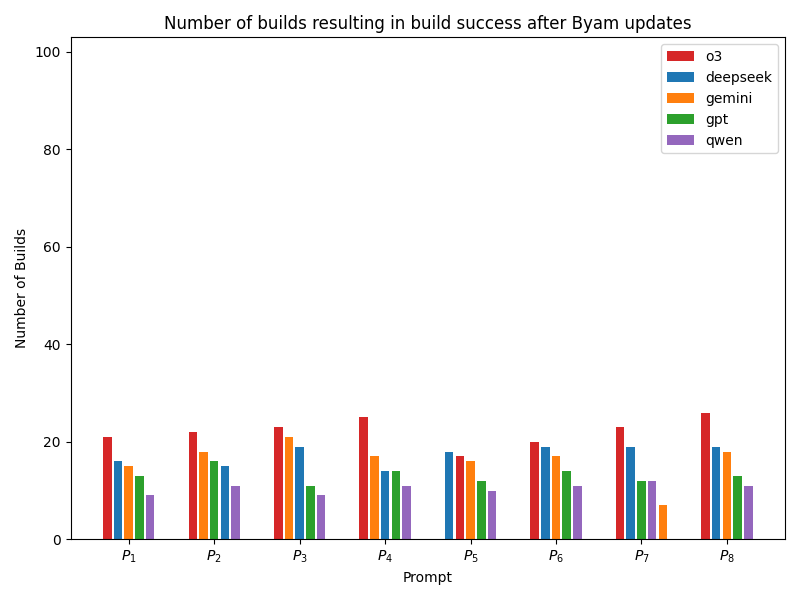
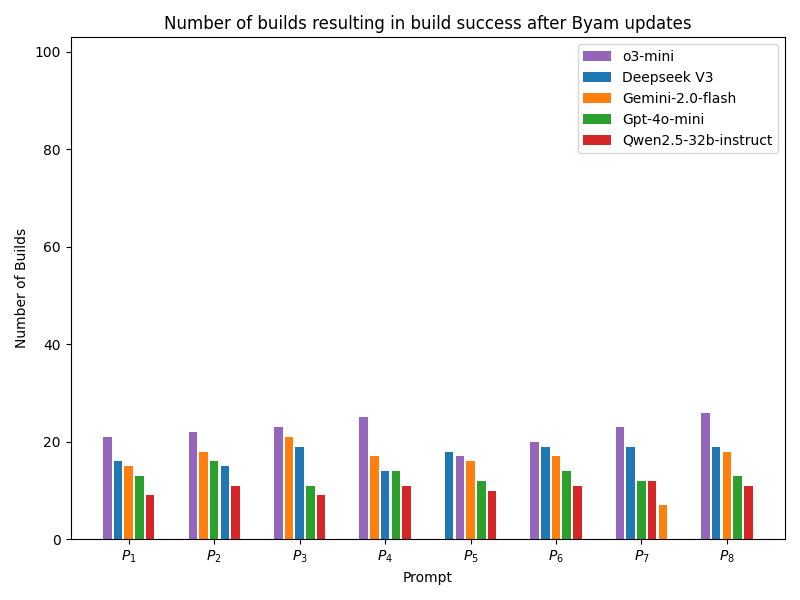
rq1 updates

diff --git a/results-analysis/rq1/rq1-updated.py b/results-analysis/rq1/rq1-updated.py
@@ -118,6 +118,17 @@ if output_build_success_latex:
 
     print(f"LaTeX table (BUILD_SUCCESS only, Prompt rows) with row coloring saved to {build_success_latex_file}")
 
+ # Rename LLMs
+counts_df.columns = pd.MultiIndex.from_tuples(
+    [(llm.replace("o3", "o3-mini")
+            .replace("deepseek", "Deepseek V3")
+            .replace("gemini", "Gemini-2.0-flash")
+            .replace("gpt", "Gpt-4o-mini")
+            .replace("qwen", "Qwen2.5-32b-instruct"), prompt)
+        for llm, prompt in counts_df.columns]
+)
+  
+
 if outupt_other_cat_plot:
      # Make a copy of counts_df to process for plotting.
     plot_df = counts_df.copy()
@@ -164,7 +175,7 @@ if outupt_other_cat_plot:
     plt.savefig(other_cat_plot)
     print(f"Plot saved to {other_cat_plot}")
 
-  
+   
 
 if output_sep_cat_plot:
     # Create a copy of counts_df for per-category plots.
